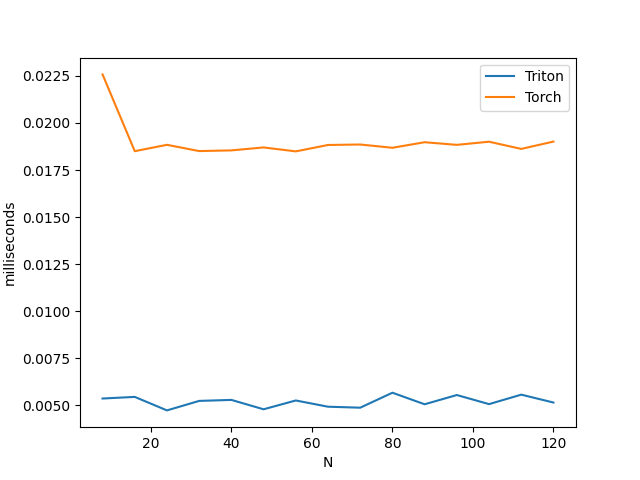
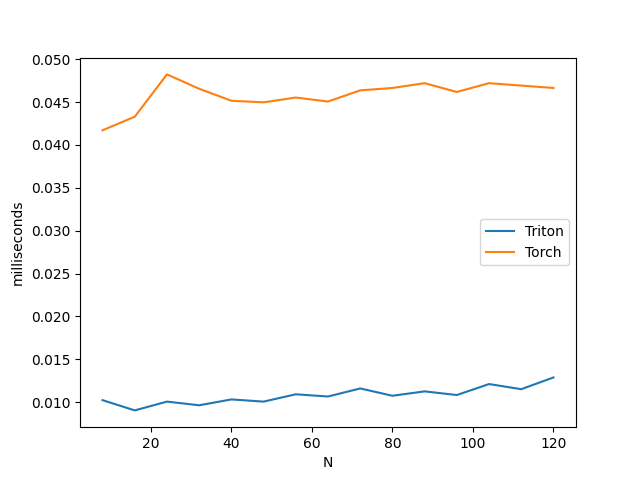
[feat]update backup

diff --git a/benchmark-results/results.html b/benchmark-results/results.html
@@ -1,3 +1,3 @@
 <html><body>
-<image src="08-vector-norm-performance.png"/>
+<image src="04-torch-argmax-performance-dim1.png"/>
 </body></html>

diff --git a/12-log_softmax.py b/12-log_softmax.py
@@ -1,0 +1,77 @@
+import triton
+import triton.language as tl
+import triton.testing as testing
+import torch
+
+
+base = 5
+
+# the implement of dim = 1
+@triton.jit
+def log_softmax_kernel(x_ptr, z_ptr, N0, N1, T, BLOCK_SIZE_M: tl.constexpr, BLOCK_SIZE_N: tl.constexpr):
+    pid_0 = tl.program_id(0)
+
+    offsets_x = tl.arange(0, BLOCK_SIZE_M) + pid_0 * BLOCK_SIZE_M
+    mask_x = offsets_x < N0
+
+    # calculate x_max and exp_x_sum
+    # x_max's size should be (N0, )
+    x_max = tl.full((BLOCK_SIZE_M, ), float('-inf'), dtype=tl.float32)
+    exp_x_sum = tl.full((BLOCK_SIZE_M, ), 0.0, dtype=tl.float32)
+    for i in tl.range(0, T, BLOCK_SIZE_N):
+      offsets_y = tl.arange(0, BLOCK_SIZE_N) + i
+      offsets = offsets_x[:, None] * T + offsets_y[None, :]
+      mask = (offsets_x[:, None] < N0) & (offsets_y[None, :] < T)
+
+      x = tl.load(x_ptr + offsets, mask=mask, other=0.0)
+      tmp_max = tl.maximum(tl.max(x, axis=1), x_max)
+      # Use the Hint:
+      # exp(x - newMax) = exp(x - oldMax) * exp(oldMax - newMax) -> Call it a Delta, or Correction Value
+      # So the SUM in every loop will be [currentValue + Delta]
+      # if you dont use this Hint, you will need a new loop to calculate the exp_x_sum
+      exp_x_sum = tl.sum(_exp(x - tmp_max[:, None]), axis=1) + exp_x_sum * _exp(x_max - tmp_max)
+      x_max = tmp_max
+
+    # calculate log_softmax result
+    for i in tl.range(0, T, BLOCK_SIZE_N):
+      offsets_y = tl.arange(0, BLOCK_SIZE_N) + i
+      offsets = offsets_x[:, None] * T + offsets_y[None, :]
+      mask = (offsets_x[:, None] < N0) & (offsets_y[None, :] < T)
+
+      x = tl.load(x_ptr + offsets, mask=mask, other=0.0)
+      exp_x = _exp(x - x_max[:, None])
+      output = exp_x / exp_x_sum[:, None]
+
+      tl.store(z_ptr + offsets, tl.log(output), mask=mask)
+    return
+
+def _exp(x):
+    log2_e = 1.44269504
+    return tl.exp2(x * log2_e)
+
+
+def _log_softmax(x: torch.Tensor):
+    output = torch.empty_like(x)
+    assert x.is_cuda and output.is_cuda
+    M, N = x.shape
+    n_elements = x.numel()
+
+    BLOCK_SIZE_M = 1
+    BLOCK_SIZE_N = 32
+    grid = lambda meta: (triton.cdiv(M, meta['BLOCK_SIZE_M']), 
+                         N, meta['BLOCK_SIZE_N'])
+    log_softmax_kernel[grid](x, output, M, n_elements, N, BLOCK_SIZE_M=BLOCK_SIZE_M, BLOCK_SIZE_N=BLOCK_SIZE_N)
+    return output
+
+
+# TEST CODE
+torch.manual_seed(0)
+x = torch.rand((2, 4), device='cuda') + base
+output_torch = torch.log_softmax(x, dim=1)
+output_triton = _log_softmax(x)
+print(f'Origin Tensor x: {x}')
+print(f'Torch output: {output_torch}')
+print(f'Triton output: {output_triton}')
+print(f"The output of torch and triton is {'✅SAME' if torch.allclose(output_torch, output_triton) else '🚨DIFF'}")
+
+  

diff --git a/09-max.py b/09-max.py
@@ -1,0 +1,76 @@
+import torch
+import triton
+import triton.language as tl
+import triton.testing as testing
+
+
+@triton.jit
+def max_kernel(input_ptr, 
+               # Matrix dimensions
+               M, 
+               N,
+               stride_x, 
+               stride_y, 
+               output_ptr, 
+               dim, 
+               BLOCK_SIZE: tl.constexpr):
+    pid = tl.program_id(axis=(1 if dim == 0 else 0))
+
+    output_block_ptr = tl.make_block_ptr(
+        base=output_ptr, 
+        shape=(N if dim == 0 else M,), 
+        strides=(1,), 
+        offsets=(pid,), 
+        block_shape=(1,), 
+        order=(0,)
+    )
+    input_block_ptr = tl.make_block_ptr(
+        base=input_ptr, 
+        shape=(M, N),
+        strides=(stride_x, stride_y),
+        offsets=(0, pid) if dim == 0 else (pid, 0),
+        block_shape=(BLOCK_SIZE, 1) if dim == 0 else (1, BLOCK_SIZE), 
+        order=(1, 0)
+    )
+    input = tl.load(input_block_ptr, boundary_check=(0, 1))
+    output = tl.max(input, axis=(0 if dim == 0 else 1))
+    tl.store(output_block_ptr, output.to(tl.float32))
+
+
+def _max(x, dim):
+    M, N = x.shape
+    if (dim == 0):
+        # 按列输出结果
+        BLOCK_SIZE = triton.next_power_of_2(M)
+    elif (dim == 1):
+        # 按行输出结果
+        BLOCK_SIZE = triton.next_power_of_2(N)
+    else:
+        raise RuntimeError("ERROR: illegal dim(should be 0 or 1)")
+    stride_x = x.stride(0)
+    stride_y = x.stride(1)
+    output = torch.empty(N if dim==0 else M, device='cuda',dtype=torch.float32)
+    assert x.is_cuda and output.is_cuda
+
+    def grid(meta):
+        return (1, N) if dim==0 else (M,)
+
+    max_kernel[grid](x, M, N, stride_x, stride_y, output, dim=dim, BLOCK_SIZE=BLOCK_SIZE)
+    return output
+
+
+# TEST CODE
+torch.manual_seed(0)
+N = (8, 4)
+x = torch.rand(N, device='cuda')
+output_torch_dim0 = torch.max(x, dim=0)[0]
+output_torch_dim1 = torch.max(x, dim=1)[0]
+output_triton_dim0 = _max(x, dim=0)
+output_triton_dim1 = _max(x, dim=1)
+print(f'Origin Tensor: {x}')
+print(f'Torch output(dim=0): {output_torch_dim0}')
+print(f'Torch output(dim=1): {output_torch_dim1}')
+print(f'Triton output(dim=0): {output_triton_dim0}')
+print(f'Triton output(dim=1): {output_triton_dim1}')
+print(f"The output of torch and triton(dim0) is {'✅SAME' if torch.allclose(output_torch_dim0, output_triton_dim0) else '🚨DIFF'}")
+print(f"The output of torch and triton(dim1) is {'✅SAME' if torch.allclose(output_torch_dim1, output_triton_dim1) else '🚨DIFF'}")

diff --git a/10-min.py b/10-min.py
@@ -1,0 +1,76 @@
+import torch
+import triton
+import triton.language as tl
+import triton.testing as testing
+
+
+@triton.jit
+def min_kernel(input_ptr, 
+               # Matrix dimensions
+               M, 
+               N,
+               stride_x, 
+               stride_y, 
+               output_ptr, 
+               dim, 
+               BLOCK_SIZE: tl.constexpr):
+    pid = tl.program_id(axis=(1 if dim == 0 else 0))
+
+    output_block_ptr = tl.make_block_ptr(
+        base=output_ptr, 
+        shape=(N if dim == 0 else M,), 
+        strides=(1,), 
+        offsets=(pid,), 
+        block_shape=(1,), 
+        order=(0,)
+    )
+    input_block_ptr = tl.make_block_ptr(
+        base=input_ptr, 
+        shape=(M, N),
+        strides=(stride_x, stride_y),
+        offsets=(0, pid) if dim == 0 else (pid, 0),
+        block_shape=(BLOCK_SIZE, 1) if dim == 0 else (1, BLOCK_SIZE), 
+        order=(1, 0)
+    )
+    input = tl.load(input_block_ptr, boundary_check=(0, 1))
+    output = tl.min(input, axis=(0 if dim == 0 else 1))
+    tl.store(output_block_ptr, output.to(tl.float32))
+
+
+def _min(x, dim):
+    M, N = x.shape
+    if (dim == 0):
+        # 按列输出结果
+        BLOCK_SIZE = triton.next_power_of_2(M)
+    elif (dim == 1):
+        # 按行输出结果
+        BLOCK_SIZE = triton.next_power_of_2(N)
+    else:
+        raise RuntimeError("ERROR: illegal dim(should be 0 or 1)")
+    stride_x = x.stride(0)
+    stride_y = x.stride(1)
+    output = torch.empty(N if dim==0 else M, device='cuda',dtype=torch.float32)
+    assert x.is_cuda and output.is_cuda
+
+    def grid(meta):
+        return (1, N) if dim==0 else (M,)
+
+    min_kernel[grid](x, M, N, stride_x, stride_y, output, dim=dim, BLOCK_SIZE=BLOCK_SIZE)
+    return output
+
+
+# TEST CODE
+torch.manual_seed(0)
+N = (8, 4)
+x = torch.rand(N, device='cuda')
+output_torch_dim0 = torch.min(x, dim=0)[0]
+output_torch_dim1 = torch.min(x, dim=1)[0]
+output_triton_dim0 = _min(x, dim=0)
+output_triton_dim1 = _min(x, dim=1)
+print(f'Origin Tensor: {x}')
+print(f'Torch output(dim=0): {output_torch_dim0}')
+print(f'Torch output(dim=1): {output_torch_dim1}')
+print(f'Triton output(dim=0): {output_triton_dim0}')
+print(f'Triton output(dim=1): {output_triton_dim1}')
+print(f"The output of torch and triton(dim0) is {'✅SAME' if torch.allclose(output_torch_dim0, output_triton_dim0) else '🚨DIFF'}")
+print(f"The output of torch and triton(dim1) is {'✅SAME' if torch.allclose(output_torch_dim1, output_triton_dim1) else '🚨DIFF'}")

diff --git a/11-sum.py b/11-sum.py
@@ -1,0 +1,59 @@
+import triton
+import triton.language as tl
+import triton.testing as testing
+import torch
+
+# Returns the sum of all elements in the input tensor.
+# 感觉跟 all 一样，还是得指定 shape，每个 shape 不一样的算子，一个算子管不了所有 shape
+# >>> a = torch.randn(4, 4)
+# >>> a
+# tensor([[ 0.0569, -0.2475,  0.0737, -0.3429],
+#         [-0.2993,  0.9138,  0.9337, -1.6864],
+#         [ 0.1132,  0.7892, -0.1003,  0.5688],
+#         [ 0.3637, -0.9906, -0.4752, -1.5197]])
+# >>> torch.sum(a, 1)
+# tensor([-0.4598, -0.1381,  1.3708, -2.6217])
+@triton.jit
+def sum_kernel(x_ptr, z_ptr, N0, N1, T, BLOCK_SIZE_M: tl.constexpr, BLOCK_SIZE_N: tl.constexpr):
+    pid = tl.program_id(axis=0)
+    offsets_x = tl.arange(0, BLOCK_SIZE_M) + pid * BLOCK_SIZE_M
+    mask_x = offsets_x < N0
+
+    output = tl.full((BLOCK_SIZE_M, ), 0., dtype=tl.float32)
+    for i in tl.range(0, T, BLOCK_SIZE_N):
+        offsets_y = tl.arange(0, BLOCK_SIZE_N) + i
+        offsets = offsets_x[:, None] * T + offsets_y[None, :]
+        mask = (offsets_x[:, None] < N0) & (offsets_y[None, :] < T)
+        x = tl.load(x_ptr + offsets, mask=mask, other=0.0)
+        output += tl.sum(x, axis=1)
+    tl.store(z_ptr + offsets_x, output, mask=mask_x)
+
+
+def _sum(x: torch.Tensor):
+    M, N = x.shape
+    stride_x = x.stride(0)
+    stride_y = x.stride(1)
+    output = torch.empty(M, device='cuda',dtype=torch.float32)
+    assert x.is_cuda and output.is_cuda
+
+    BLOCK_SIZE_M = 1
+    BLOCK_SIZE_N = 32
+    n_elements = x.numel()
+
+    def grid(meta):
+        return (M,)
+    
+    sum_kernel[grid](x, output, M, n_elements, N, BLOCK_SIZE_M=BLOCK_SIZE_M, BLOCK_SIZE_N=BLOCK_SIZE_N)
+    return output
+
+
+# TEST CODE
+torch.manual_seed(0)
+N = (8, 4)
+x = torch.rand(N, device='cuda')
+output_torch = torch.sum(x)
+output_triton = _sum(x)
+print(f'Origin Tensor: {x}')
+print(f'Torch output(dim=0): {output_torch}')
+print(f'Triton output(dim=0): {output_triton}')
+print(f"The output of torch and triton(dim0) is {'✅SAME' if torch.allclose(output_torch, output_triton) else '🚨DIFF'}")

diff --git a/05-element-wise-cos.py b/05-element-wise-cos.py
@@ -42,7 +42,7 @@ def _cos(x: torch.Tensor):
     [
         testing.Benchmark(
             x_names=["N"],
-            x_vals=[8 * i for i in range(1, 16, 1)],
+            x_vals=[32 * i for i in range(1, 16, 1)],
             x_log=False,
             line_arg="backend",
             line_vals=["triton", "torch"],

diff --git a/02-torch-all.py b/02-torch-all.py
@@ -9,6 +9,7 @@ threshlod = 0.8
 
 # Tests if any element in input evaluate to True.
 # torch-all can support multi-dimensions tensor
+# 还是得指定 shape，每个 shape 不一样的算子，一个算子管不了所有 shape
 @triton.jit
 def all_kernel(input_ptr, 
                # Matrix dimensions
